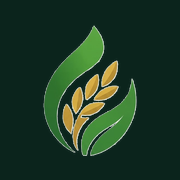
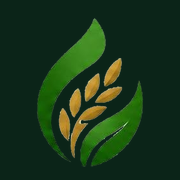
Install the mill’s own two-leaf mark with the paper ground removed.
Same artwork the mill supplied — wrapping leaves and gold ear — on a transparent PNG so the forest header and About disc stay clean.

Changed region(s): [[0.1944, 0.0833, 0.8056, 0.9444]]

diff --git a/index.html b/index.html
@@ -13,8 +13,8 @@
   <meta property="og:url" content="https://muhammadashir0.github.io/jhabran-rice-mill/">
   <meta property="og:image" content="https://muhammadashir0.github.io/jhabran-rice-mill/assets/images/hero-range.jpg">
   <meta name="theme-color" content="#0B241C">
-  <link rel="icon" type="image/png" href="assets/images/mark.png">
-  <link rel="apple-touch-icon" href="assets/images/apple-touch.png">
+  <link rel="icon" type="image/png" href="assets/images/mark.png?v=2">
+  <link rel="apple-touch-icon" href="assets/images/apple-touch.png?v=2">
   <link rel="preload" as="image" href="assets/images/hero-range.jpg?v=15">
   <link rel="preconnect" href="https://fonts.googleapis.com">
   <link rel="preconnect" href="https://fonts.gstatic.com" crossorigin>
@@ -30,7 +30,7 @@
     <header class="site-header">
     <div class="inner">
       <a class="brand" href="index.html">
-        <img src="assets/images/mark.png" alt="Saith Hanif Rice Mills" width="40" height="54">
+        <img src="assets/images/mark.png?v=2" alt="Saith Hanif Rice Mills" width="40" height="54">
         <span class="brand-lockup">
           <span class="brand-org">Saith Hanif</span>
           <span class="brand-org-sub">Rice Mills</span>
@@ -157,7 +157,7 @@
             <h2>A mill at Grain Market Jhabran. Rice since 1979.</h2>
           </div>
           <div class="home-about-media" data-aos="fade-up">
-            <img src="assets/images/mark.png" alt="Saith Hanif Rice Mills" width="220" height="296" loading="lazy" decoding="async">
+            <img src="assets/images/mark.png?v=2" alt="Saith Hanif Rice Mills" width="220" height="296" loading="lazy" decoding="async">
           </div>
           <div class="home-about-copy" data-aos="fade-left">
             <h3>A legacy of excellence since 1979.</h3>
@@ -487,7 +487,7 @@
     <div class="wrap footer-grid lp-foot">
       <div>
         <a class="brand" href="index.html">
-          <img src="assets/images/mark.png" alt="Saith Hanif Rice Mills" width="40" height="54">
+          <img src="assets/images/mark.png?v=2" alt="Saith Hanif Rice Mills" width="40" height="54">
           <span class="brand-lockup">
             <span class="brand-org">Saith Hanif</span>
             <span class="brand-org-sub">Rice Mills</span>

diff --git a/product-classic-steam.html b/product-classic-steam.html
@@ -13,8 +13,8 @@
   <meta property="og:url" content="https://muhammadashir0.github.io/jhabran-rice-mill/product-classic-steam.html">
   <meta property="og:image" content="https://muhammadashir0.github.io/jhabran-rice-mill/assets/products/ziyarat-classic-steam.jpg?v=4">
   <meta name="theme-color" content="#0B241C">
-  <link rel="icon" type="image/png" href="assets/images/mark.png">
-  <link rel="apple-touch-icon" href="assets/images/apple-touch.png">
+  <link rel="icon" type="image/png" href="assets/images/mark.png?v=2">
+  <link rel="apple-touch-icon" href="assets/images/apple-touch.png?v=2">
   <link rel="preconnect" href="https://fonts.googleapis.com">
   <link rel="preconnect" href="https://fonts.gstatic.com" crossorigin>
   <link href="https://fonts.googleapis.com/css2?family=Inter:wght@400;500;600;700&family=Playfair+Display:ital,wght@0,400;0,500;0,600;0,700;1,400;1,500;1,600&family=Noto+Nastaliq+Urdu:wght@400;500;600;700&display=swap" rel="stylesheet">
@@ -30,7 +30,7 @@
     <header class="site-header">
     <div class="inner">
       <a class="brand" href="index.html">
-        <img src="assets/images/mark.png" alt="Saith Hanif Rice Mills" width="40" height="54">
+        <img src="assets/images/mark.png?v=2" alt="Saith Hanif Rice Mills" width="40" height="54">
         <span class="brand-lockup">
           <span class="brand-org">Saith Hanif</span>
           <span class="brand-org-sub">Rice Mills</span>
@@ -261,7 +261,7 @@
     <div class="wrap footer-grid">
       <div>
         <a class="brand" href="index.html">
-          <img src="assets/images/mark.png" alt="Saith Hanif Rice Mills" width="40" height="54">
+          <img src="assets/images/mark.png?v=2" alt="Saith Hanif Rice Mills" width="40" height="54">
           <span class="brand-lockup">
             <span class="brand-org">Saith Hanif</span>
             <span class="brand-org-sub">Rice Mills</span>

diff --git a/product-classic.html b/product-classic.html
@@ -13,8 +13,8 @@
   <meta property="og:url" content="https://muhammadashir0.github.io/jhabran-rice-mill/product-classic.html">
   <meta property="og:image" content="https://muhammadashir0.github.io/jhabran-rice-mill/assets/products/ziyarat-classic-sella.jpg?v=4">
   <meta name="theme-color" content="#0B241C">
-  <link rel="icon" type="image/png" href="assets/images/mark.png">
-  <link rel="apple-touch-icon" href="assets/images/apple-touch.png">
+  <link rel="icon" type="image/png" href="assets/images/mark.png?v=2">
+  <link rel="apple-touch-icon" href="assets/images/apple-touch.png?v=2">
   <link rel="preconnect" href="https://fonts.googleapis.com">
   <link rel="preconnect" href="https://fonts.gstatic.com" crossorigin>
   <link href="https://fonts.googleapis.com/css2?family=Inter:wght@400;500;600;700&family=Playfair+Display:ital,wght@0,400;0,500;0,600;0,700;1,400;1,500;1,600&family=Noto+Nastaliq+Urdu:wght@400;500;600;700&display=swap" rel="stylesheet">
@@ -30,7 +30,7 @@
     <header class="site-header">
     <div class="inner">
       <a class="brand" href="index.html">
-        <img src="assets/images/mark.png" alt="Saith Hanif Rice Mills" width="40" height="54">
+        <img src="assets/images/mark.png?v=2" alt="Saith Hanif Rice Mills" width="40" height="54">
         <span class="brand-lockup">
           <span class="brand-org">Saith Hanif</span>
           <span class="brand-org-sub">Rice Mills</span>
@@ -261,7 +261,7 @@
     <div class="wrap footer-grid">
       <div>
         <a class="brand" href="index.html">
-          <img src="assets/images/mark.png" alt="Saith Hanif Rice Mills" width="40" height="54">
+          <img src="assets/images/mark.png?v=2" alt="Saith Hanif Rice Mills" width="40" height="54">
           <span class="brand-lockup">
             <span class="brand-org">Saith Hanif</span>
             <span class="brand-org-sub">Rice Mills</span>

diff --git a/product-short-grain.html b/product-short-grain.html
@@ -13,8 +13,8 @@
   <meta property="og:url" content="https://muhammadashir0.github.io/jhabran-rice-mill/product-short-grain.html">
   <meta property="og:image" content="https://muhammadashir0.github.io/jhabran-rice-mill/assets/products/ziyarat-short.jpg?v=4">
   <meta name="theme-color" content="#0B241C">
-  <link rel="icon" type="image/png" href="assets/images/mark.png">
-  <link rel="apple-touch-icon" href="assets/images/apple-touch.png">
+  <link rel="icon" type="image/png" href="assets/images/mark.png?v=2">
+  <link rel="apple-touch-icon" href="assets/images/apple-touch.png?v=2">
   <link rel="preconnect" href="https://fonts.googleapis.com">
   <link rel="preconnect" href="https://fonts.gstatic.com" crossorigin>
   <link href="https://fonts.googleapis.com/css2?family=Inter:wght@400;500;600;700&family=Playfair+Display:ital,wght@0,400;0,500;0,600;0,700;1,400;1,500;1,600&family=Noto+Nastaliq+Urdu:wght@400;500;600;700&display=swap" rel="stylesheet">
@@ -30,7 +30,7 @@
     <header class="site-header">
     <div class="inner">
       <a class="brand" href="index.html">
-        <img src="assets/images/mark.png" alt="Saith Hanif Rice Mills" width="40" height="54">
+        <img src="assets/images/mark.png?v=2" alt="Saith Hanif Rice Mills" width="40" height="54">
         <span class="brand-lockup">
           <span class="brand-org">Saith Hanif</span>
           <span class="brand-org-sub">Rice Mills</span>
@@ -261,7 +261,7 @@
     <div class="wrap footer-grid">
       <div>
         <a class="brand" href="index.html">
-          <img src="assets/images/mark.png" alt="Saith Hanif Rice Mills" width="40" height="54">
+          <img src="assets/images/mark.png?v=2" alt="Saith Hanif Rice Mills" width="40" height="54">
           <span class="brand-lockup">
             <span class="brand-org">Saith Hanif</span>
             <span class="brand-org-sub">Rice Mills</span>

diff --git a/product-sultan-sella.html b/product-sultan-sella.html
@@ -13,8 +13,8 @@
   <meta property="og:url" content="https://muhammadashir0.github.io/jhabran-rice-mill/product-sultan-sella.html">
   <meta property="og:image" content="https://muhammadashir0.github.io/jhabran-rice-mill/assets/products/sultan-sella.jpg?v=4">
   <meta name="theme-color" content="#0B241C">
-  <link rel="icon" type="image/png" href="assets/images/mark.png">
-  <link rel="apple-touch-icon" href="assets/images/apple-touch.png">
+  <link rel="icon" type="image/png" href="assets/images/mark.png?v=2">
+  <link rel="apple-touch-icon" href="assets/images/apple-touch.png?v=2">
   <link rel="preconnect" href="https://fonts.googleapis.com">
   <link rel="preconnect" href="https://fonts.gstatic.com" crossorigin>
   <link href="https://fonts.googleapis.com/css2?family=Inter:wght@400;500;600;700&family=Playfair+Display:ital,wght@0,400;0,500;0,600;0,700;1,400;1,500;1,600&family=Noto+Nastaliq+Urdu:wght@400;500;600;700&display=swap" rel="stylesheet">
@@ -30,7 +30,7 @@
     <header class="site-header">
     <div class="inner">
       <a class="brand" href="index.html">
-        <img src="assets/images/mark.png" alt="Saith Hanif Rice Mills" width="40" height="54">
+        <img src="assets/images/mark.png?v=2" alt="Saith Hanif Rice Mills" width="40" height="54">
         <span class="brand-lockup">
           <span class="brand-org">Saith Hanif</span>
           <span class="brand-org-sub">Rice Mills</span>
@@ -261,7 +261,7 @@
     <div class="wrap footer-grid">
       <div>
         <a class="brand" href="index.html">
-          <img src="assets/images/mark.png" alt="Saith Hanif Rice Mills" width="40" height="54">
+          <img src="assets/images/mark.png?v=2" alt="Saith Hanif Rice Mills" width="40" height="54">
           <span class="brand-lockup">
             <span class="brand-org">Saith Hanif</span>
             <span class="brand-org-sub">Rice Mills</span>

diff --git a/product-sultan-short.html b/product-sultan-short.html
@@ -13,8 +13,8 @@
   <meta property="og:url" content="https://muhammadashir0.github.io/jhabran-rice-mill/product-sultan-short.html">
   <meta property="og:image" content="https://muhammadashir0.github.io/jhabran-rice-mill/assets/products/sultan-short.jpg?v=4">
   <meta name="theme-color" content="#0B241C">
-  <link rel="icon" type="image/png" href="assets/images/mark.png">
-  <link rel="apple-touch-icon" href="assets/images/apple-touch.png">
+  <link rel="icon" type="image/png" href="assets/images/mark.png?v=2">
+  <link rel="apple-touch-icon" href="assets/images/apple-touch.png?v=2">
   <link rel="preconnect" href="https://fonts.googleapis.com">
   <link rel="preconnect" href="https://fonts.gstatic.com" crossorigin>
   <link href="https://fonts.googleapis.com/css2?family=Inter:wght@400;500;600;700&family=Playfair+Display:ital,wght@0,400;0,500;0,600;0,700;1,400;1,500;1,600&family=Noto+Nastaliq+Urdu:wght@400;500;600;700&display=swap" rel="stylesheet">
@@ -30,7 +30,7 @@
     <header class="site-header">
     <div class="inner">
       <a class="brand" href="index.html">
-        <img src="assets/images/mark.png" alt="Saith Hanif Rice Mills" width="40" height="54">
+        <img src="assets/images/mark.png?v=2" alt="Saith Hanif Rice Mills" width="40" height="54">
         <span class="brand-lockup">
           <span class="brand-org">Saith Hanif</span>
           <span class="brand-org-sub">Rice Mills</span>
@@ -261,7 +261,7 @@
     <div class="wrap footer-grid">
       <div>
         <a class="brand" href="index.html">
-          <img src="assets/images/mark.png" alt="Saith Hanif Rice Mills" width="40" height="54">
+          <img src="assets/images/mark.png?v=2" alt="Saith Hanif Rice Mills" width="40" height="54">
           <span class="brand-lockup">
             <span class="brand-org">Saith Hanif</span>
             <span class="brand-org-sub">Rice Mills</span>

diff --git a/product-sella.html b/product-sella.html
@@ -13,8 +13,8 @@
   <meta property="og:url" content="https://muhammadashir0.github.io/jhabran-rice-mill/product-sella.html">
   <meta property="og:image" content="https://muhammadashir0.github.io/jhabran-rice-mill/assets/products/ziyarat-sella-1121.jpg?v=4">
   <meta name="theme-color" content="#0B241C">
-  <link rel="icon" type="image/png" href="assets/images/mark.png">
-  <link rel="apple-touch-icon" href="assets/images/apple-touch.png">
+  <link rel="icon" type="image/png" href="assets/images/mark.png?v=2">
+  <link rel="apple-touch-icon" href="assets/images/apple-touch.png?v=2">
   <link rel="preconnect" href="https://fonts.googleapis.com">
   <link rel="preconnect" href="https://fonts.gstatic.com" crossorigin>
   <link href="https://fonts.googleapis.com/css2?family=Inter:wght@400;500;600;700&family=Playfair+Display:ital,wght@0,400;0,500;0,600;0,700;1,400;1,500;1,600&family=Noto+Nastaliq+Urdu:wght@400;500;600;700&display=swap" rel="stylesheet">
@@ -30,7 +30,7 @@
     <header class="site-header">
     <div class="inner">
       <a class="brand" href="index.html">
-        <img src="assets/images/mark.png" alt="Saith Hanif Rice Mills" width="40" height="54">
+        <img src="assets/images/mark.png?v=2" alt="Saith Hanif Rice Mills" width="40" height="54">
         <span class="brand-lockup">
           <span class="brand-org">Saith Hanif</span>
           <span class="brand-org-sub">Rice Mills</span>
@@ -261,7 +261,7 @@
     <div class="wrap footer-grid">
       <div>
         <a class="brand" href="index.html">
-          <img src="assets/images/mark.png" alt="Saith Hanif Rice Mills" width="40" height="54">
+          <img src="assets/images/mark.png?v=2" alt="Saith Hanif Rice Mills" width="40" height="54">
           <span class="brand-lockup">
             <span class="brand-org">Saith Hanif</span>
             <span class="brand-org-sub">Rice Mills</span>

diff --git a/product-steam.html b/product-steam.html
@@ -13,8 +13,8 @@
   <meta property="og:url" content="https://muhammadashir0.github.io/jhabran-rice-mill/product-steam.html">
   <meta property="og:image" content="https://muhammadashir0.github.io/jhabran-rice-mill/assets/products/ziyarat-steam-1121.jpg?v=4">
   <meta name="theme-color" content="#0B241C">
-  <link rel="icon" type="image/png" href="assets/images/mark.png">
-  <link rel="apple-touch-icon" href="assets/images/apple-touch.png">
+  <link rel="icon" type="image/png" href="assets/images/mark.png?v=2">
+  <link rel="apple-touch-icon" href="assets/images/apple-touch.png?v=2">
   <link rel="preconnect" href="https://fonts.googleapis.com">
   <link rel="preconnect" href="https://fonts.gstatic.com" crossorigin>
   <link href="https://fonts.googleapis.com/css2?family=Inter:wght@400;500;600;700&family=Playfair+Display:ital,wght@0,400;0,500;0,600;0,700;1,400;1,500;1,600&family=Noto+Nastaliq+Urdu:wght@400;500;600;700&display=swap" rel="stylesheet">
@@ -30,7 +30,7 @@
     <header class="site-header">
     <div class="inner">
       <a class="brand" href="index.html">
-        <img src="assets/images/mark.png" alt="Saith Hanif Rice Mills" width="40" height="54">
+        <img src="assets/images/mark.png?v=2" alt="Saith Hanif Rice Mills" width="40" height="54">
         <span class="brand-lockup">
           <span class="brand-org">Saith Hanif</span>
           <span class="brand-org-sub">Rice Mills</span>
@@ -261,7 +261,7 @@
     <div class="wrap footer-grid">
       <div>
         <a class="brand" href="index.html">
-          <img src="assets/images/mark.png" alt="Saith Hanif Rice Mills" width="40" height="54">
+          <img src="assets/images/mark.png?v=2" alt="Saith Hanif Rice Mills" width="40" height="54">
           <span class="brand-lockup">
             <span class="brand-org">Saith Hanif</span>
             <span class="brand-org-sub">Rice Mills</span>

diff --git a/product-basmati.html b/product-basmati.html
@@ -13,8 +13,8 @@
   <meta property="og:url" content="https://muhammadashir0.github.io/jhabran-rice-mill/product-basmati.html">
   <meta property="og:image" content="https://muhammadashir0.github.io/jhabran-rice-mill/assets/products/ziyarat-basmati.jpg?v=4">
   <meta name="theme-color" content="#0B241C">
-  <link rel="icon" type="image/png" href="assets/images/mark.png">
-  <link rel="apple-touch-icon" href="assets/images/apple-touch.png">
+  <link rel="icon" type="image/png" href="assets/images/mark.png?v=2">
+  <link rel="apple-touch-icon" href="assets/images/apple-touch.png?v=2">
   <link rel="preconnect" href="https://fonts.googleapis.com">
   <link rel="preconnect" href="https://fonts.gstatic.com" crossorigin>
   <link href="https://fonts.googleapis.com/css2?family=Inter:wght@400;500;600;700&family=Playfair+Display:ital,wght@0,400;0,500;0,600;0,700;1,400;1,500;1,600&family=Noto+Nastaliq+Urdu:wght@400;500;600;700&display=swap" rel="stylesheet">
@@ -30,7 +30,7 @@
     <header class="site-header">
     <div class="inner">
       <a class="brand" href="index.html">
-        <img src="assets/images/mark.png" alt="Saith Hanif Rice Mills" width="40" height="54">
+        <img src="assets/images/mark.png?v=2" alt="Saith Hanif Rice Mills" width="40" height="54">
         <span class="brand-lockup">
           <span class="brand-org">Saith Hanif</span>
           <span class="brand-org-sub">Rice Mills</span>
@@ -261,7 +261,7 @@
     <div class="wrap footer-grid">
       <div>
         <a class="brand" href="index.html">
-          <img src="assets/images/mark.png" alt="Saith Hanif Rice Mills" width="40" height="54">
+          <img src="assets/images/mark.png?v=2" alt="Saith Hanif Rice Mills" width="40" height="54">
           <span class="brand-lockup">
             <span class="brand-org">Saith Hanif</span>
             <span class="brand-org-sub">Rice Mills</span>

diff --git a/leadership.html b/leadership.html
@@ -13,8 +13,8 @@
   <meta property="og:url" content="https://muhammadashir0.github.io/jhabran-rice-mill/leadership.html">
   <meta property="og:image" content="https://muhammadashir0.github.io/jhabran-rice-mill/assets/images/chairman-og.jpg">
   <meta name="theme-color" content="#0B241C">
-  <link rel="icon" type="image/png" href="assets/images/mark.png">
-  <link rel="apple-touch-icon" href="assets/images/apple-touch.png">
+  <link rel="icon" type="image/png" href="assets/images/mark.png?v=2">
+  <link rel="apple-touch-icon" href="assets/images/apple-touch.png?v=2">
   <link rel="preconnect" href="https://fonts.googleapis.com">
   <link rel="preconnect" href="https://fonts.gstatic.com" crossorigin>
   <link href="https://fonts.googleapis.com/css2?family=Inter:wght@400;500;600;700&family=Playfair+Display:ital,wght@0,400;0,500;0,600;0,700;1,400;1,500;1,600&family=Noto+Nastaliq+Urdu:wght@400;500;600;700&display=swap" rel="stylesheet">
@@ -29,7 +29,7 @@
     <header class="site-header solid">
     <div class="inner">
       <a class="brand" href="index.html">
-        <img src="assets/images/mark.png" alt="Saith Hanif Rice Mills" width="40" height="54">
+        <img src="assets/images/mark.png?v=2" alt="Saith Hanif Rice Mills" width="40" height="54">
         <span class="brand-lockup">
           <span class="brand-org">Saith Hanif</span>
           <span class="brand-org-sub">Rice Mills</span>
@@ -218,7 +218,7 @@
     <div class="wrap footer-grid lp-foot">
       <div>
         <a class="brand" href="index.html">
-          <img src="assets/images/mark.png" alt="Saith Hanif Rice Mills" width="40" height="54">
+          <img src="assets/images/mark.png?v=2" alt="Saith Hanif Rice Mills" width="40" height="54">
           <span class="brand-lockup">
             <span class="brand-org">Saith Hanif</span>
             <span class="brand-org-sub">Rice Mills</span>

diff --git a/export.html b/export.html
@@ -13,8 +13,8 @@
   <meta property="og:url" content="https://muhammadashir0.github.io/jhabran-rice-mill/export.html">
   <meta property="og:image" content="https://muhammadashir0.github.io/jhabran-rice-mill/assets/images/export-slide-1.jpg?v=2">
   <meta name="theme-color" content="#0B241C">
-  <link rel="icon" type="image/png" href="assets/images/mark.png">
-  <link rel="apple-touch-icon" href="assets/images/apple-touch.png">
+  <link rel="icon" type="image/png" href="assets/images/mark.png?v=2">
+  <link rel="apple-touch-icon" href="assets/images/apple-touch.png?v=2">
   <link rel="preconnect" href="https://fonts.googleapis.com">
   <link rel="preconnect" href="https://fonts.gstatic.com" crossorigin>
   <link href="https://fonts.googleapis.com/css2?family=Inter:wght@400;500;600;700&family=Playfair+Display:ital,wght@0,400;0,500;0,600;0,700;1,400;1,500;1,600&family=Noto+Nastaliq+Urdu:wght@400;500;600;700&display=swap" rel="stylesheet">
@@ -27,7 +27,7 @@
     <header class="site-header">
     <div class="inner">
       <a class="brand" href="index.html">
-        <img src="assets/images/mark.png" alt="Saith Hanif Rice Mills" width="40" height="54">
+        <img src="assets/images/mark.png?v=2" alt="Saith Hanif Rice Mills" width="40" height="54">
         <span class="brand-lockup">
           <span class="brand-org">Saith Hanif</span>
           <span class="brand-org-sub">Rice Mills</span>
@@ -259,7 +259,7 @@
     <div class="wrap footer-grid lp-foot">
       <div>
         <a class="brand" href="index.html">
-          <img src="assets/images/mark.png" alt="Saith Hanif Rice Mills" width="40" height="54">
+          <img src="assets/images/mark.png?v=2" alt="Saith Hanif Rice Mills" width="40" height="54">
           <span class="brand-lockup">
             <span class="brand-org">Saith Hanif</span>
             <span class="brand-org-sub">Rice Mills</span>

diff --git a/product-awami.html b/product-awami.html
@@ -13,8 +13,8 @@
   <meta property="og:url" content="https://muhammadashir0.github.io/jhabran-rice-mill/product-awami.html">
   <meta property="og:image" content="https://muhammadashir0.github.io/jhabran-rice-mill/assets/products/ziyarat-awami.jpg?v=4">
   <meta name="theme-color" content="#0B241C">
-  <link rel="icon" type="image/png" href="assets/images/mark.png">
-  <link rel="apple-touch-icon" href="assets/images/apple-touch.png">
+  <link rel="icon" type="image/png" href="assets/images/mark.png?v=2">
+  <link rel="apple-touch-icon" href="assets/images/apple-touch.png?v=2">
   <link rel="preconnect" href="https://fonts.googleapis.com">
   <link rel="preconnect" href="https://fonts.gstatic.com" crossorigin>
   <link href="https://fonts.googleapis.com/css2?family=Inter:wght@400;500;600;700&family=Playfair+Display:ital,wght@0,400;0,500;0,600;0,700;1,400;1,500;1,600&family=Noto+Nastaliq+Urdu:wght@400;500;600;700&display=swap" rel="stylesheet">
@@ -30,7 +30,7 @@
     <header class="site-header">
     <div class="inner">
       <a class="brand" href="index.html">
-        <img src="assets/images/mark.png" alt="Saith Hanif Rice Mills" width="40" height="54">
+        <img src="assets/images/mark.png?v=2" alt="Saith Hanif Rice Mills" width="40" height="54">
         <span class="brand-lockup">
           <span class="brand-org">Saith Hanif</span>
           <span class="brand-org-sub">Rice Mills</span>
@@ -261,7 +261,7 @@
     <div class="wrap footer-grid">
       <div>
         <a class="brand" href="index.html">
-          <img src="assets/images/mark.png" alt="Saith Hanif Rice Mills" width="40" height="54">
+          <img src="assets/images/mark.png?v=2" alt="Saith Hanif Rice Mills" width="40" height="54">
           <span class="brand-lockup">
             <span class="brand-org">Saith Hanif</span>
             <span class="brand-org-sub">Rice Mills</span>
